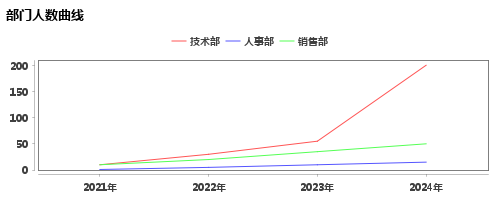
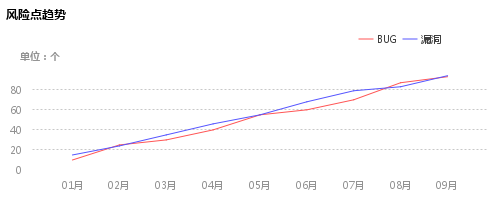
整合JFreeChart

diff --git a/sample-business/src/main/java/com/cn/boot/sample/business/util/chart/ChartUtil.java b/sample-business/src/main/java/com/cn/boot/sample/business/util/chart/ChartUtil.java
@@ -2,15 +2,20 @@ package com.cn.boot.sample.business.util.chart;
 
 import lombok.SneakyThrows;
 import lombok.extern.slf4j.Slf4j;
-import org.jfree.chart.*;
+import org.jfree.chart.ChartFactory;
+import org.jfree.chart.ChartUtils;
+import org.jfree.chart.JFreeChart;
+import org.jfree.chart.StandardChartTheme;
 import org.jfree.chart.axis.CategoryAxis;
 import org.jfree.chart.axis.ValueAxis;
 import org.jfree.chart.plot.CategoryPlot;
 import org.jfree.chart.title.LegendTitle;
 import org.jfree.chart.title.TextTitle;
+import org.jfree.chart.title.Title;
 import org.jfree.chart.ui.HorizontalAlignment;
 import org.jfree.chart.ui.RectangleEdge;
 import org.jfree.chart.ui.RectangleInsets;
+import org.jfree.chart.ui.VerticalAlignment;
 import org.jfree.data.category.DefaultCategoryDataset;
 import org.jfree.data.general.DefaultPieDataset;
 import org.jfree.data.xy.XYSeries;
@@ -24,6 +29,8 @@ import java.io.File;
  */
 @Slf4j
 public class ChartUtil {
+
+    private static final Color COLOR_GRAY = new Color(146, 146, 146);
 
     /**
      * 创建饼图
@@ -51,54 +58,66 @@ public class ChartUtil {
     @SneakyThrows
     public static void createLineChart() {
         DefaultCategoryDataset dataset = new DefaultCategoryDataset();
-        dataset.setValue(10, "技术部", "2021年");
-        dataset.setValue(30, "技术部", "2022年");
-        dataset.setValue(55, "技术部", "2023年");
-        dataset.setValue(200, "技术部", "2024年");
-        dataset.setValue(1, "人事部", "2021年");
-        dataset.setValue(5, "人事部", "2022年");
-        dataset.setValue(10, "人事部", "2023年");
-        dataset.setValue(15, "人事部", "2024年");
-        dataset.setValue(10, "销售部", "2021年");
-        dataset.setValue(20, "销售部", "2022年");
-        dataset.setValue(35, "销售部", "2023年");
-        dataset.setValue(50, "销售部", "2024年");
+        dataset.setValue(10, "BUG", "01月");
+        dataset.setValue(25, "BUG", "02月");
+        dataset.setValue(30, "BUG", "03月");
+        dataset.setValue(40, "BUG", "04月");
+        dataset.setValue(55, "BUG", "05月");
+        dataset.setValue(60, "BUG", "06月");
+        dataset.setValue(70, "BUG", "07月");
+        dataset.setValue(87, "BUG", "08月");
+        dataset.setValue(93, "BUG", "09月");
+        dataset.setValue(15, "漏洞", "01月");
+        dataset.setValue(24, "漏洞", "02月");
+        dataset.setValue(35, "漏洞", "03月");
+        dataset.setValue(46, "漏洞", "04月");
+        dataset.setValue(55, "漏洞", "05月");
+        dataset.setValue(68, "漏洞", "06月");
+        dataset.setValue(79, "漏洞", "07月");
+        dataset.setValue(83, "漏洞", "08月");
+        dataset.setValue(94, "漏洞", "09月");
 
         StandardChartTheme chartTheme = new StandardChartTheme("CN");
-        chartTheme.setExtraLargeFont(new Font("微软雅黑", Font.BOLD, 13));
-        chartTheme.setRegularFont(new Font("微软雅黑", Font.BOLD, 10));
-        chartTheme.setLargeFont(new Font("微软雅黑", Font.BOLD, 10));
+        chartTheme.setExtraLargeFont(new Font("微软雅黑", Font.PLAIN, 13));
+        chartTheme.setRegularFont(new Font("微软雅黑", Font.PLAIN, 10));
+        chartTheme.setLargeFont(new Font("微软雅黑", Font.PLAIN, 10));
         ChartFactory.setChartTheme(chartTheme);
         JFreeChart chart = ChartFactory.createLineChart(null, null, null, dataset);
         CategoryPlot plot = (CategoryPlot) chart.getPlot();
         plot.setBackgroundPaint(Color.WHITE);  // 设置绘图区背景颜色为白色
 
         // 自定义标题
-        TextTitle customTitle = new TextTitle("部门人数曲线", new Font("微软雅黑", Font.BOLD, 13));
+        TextTitle customTitle = new TextTitle("风险点趋势", new Font("微软雅黑", Font.BOLD, 12));
         customTitle.setHorizontalAlignment(HorizontalAlignment.LEFT);
-        // 减少标题周围的边距，使其更靠近左侧
         customTitle.setMargin(new RectangleInsets(5, 5, 5, 5)); // 可以根据需要调整这些值
         chart.setTitle(customTitle);
 
-        // 网格线
-        plot.setRangeGridlinesVisible(true);
-        plot.setRangeGridlinePaint(Color.LIGHT_GRAY);
-
-        // 边框
-        plot.setOutlineVisible(false);
-
-        // 获取X轴和Y轴
-        CategoryAxis domainAxis = plot.getDomainAxis();
-        domainAxis.setAxisLineVisible(false);
-        domainAxis.setTickMarksVisible(false);
-        ValueAxis rangeAxis = plot.getRangeAxis();
-        rangeAxis.setAxisLineVisible(false);
-        rangeAxis.setTickMarksVisible(false);
-
-        // 设置图例位置
+        // 设置图例位置-右上角（默认下方中间）
         LegendTitle legend = chart.getLegend();
         legend.setPadding(0, 300, 0, 0);
         legend.setPosition(RectangleEdge.TOP);
+
+        // 增加y轴单位说明文字
+        Title title = new TextTitle("单位：个", new Font("微软雅黑", Font.BOLD, 10), COLOR_GRAY,
+                RectangleEdge.TOP, HorizontalAlignment.LEFT, VerticalAlignment.TOP, RectangleInsets.ZERO_INSETS);
+        title.setPadding(0, 20, 0, 0);
+        chart.addSubtitle(title);
+
+        // 增加网格线
+        plot.setRangeGridlinePaint(COLOR_GRAY);
+
+        // 隐藏边框
+        plot.setOutlineVisible(false);
+
+        // 隐藏x轴和y轴的标尺
+        CategoryAxis domainAxis = plot.getDomainAxis();
+        domainAxis.setAxisLineVisible(false);
+        domainAxis.setTickMarksVisible(false);
+        domainAxis.setTickLabelPaint(COLOR_GRAY);
+        ValueAxis rangeAxis = plot.getRangeAxis();
+        rangeAxis.setAxisLineVisible(false);
+        rangeAxis.setTickMarksVisible(false);
+        rangeAxis.setTickLabelPaint(COLOR_GRAY);
 
         ChartUtils.saveChartAsPNG(new File("./pdf/chart/lineChart.png"), chart, 500, 200);
     }
